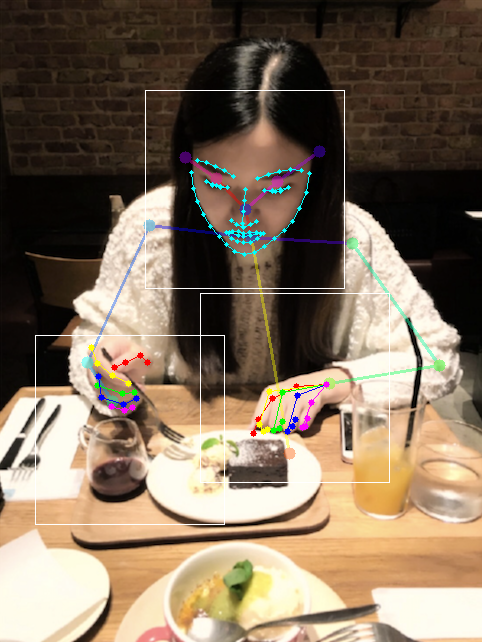
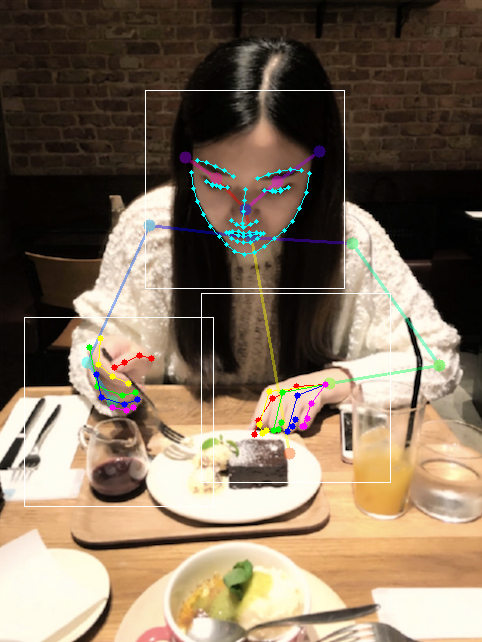
update hands_cropper

diff --git a/pose_detector.py b/pose_detector.py
@@ -374,8 +374,7 @@ class PoseDetector(object):
             crop_center = person_pose[JointType.LeftHand][:-1]
             if person_pose[JointType.LeftElbow][2] > 0:
                 direction_vec = person_pose[JointType.LeftHand][:-1] - person_pose[JointType.LeftElbow][:-1]
-                direction_vec = direction_vec / np.linalg.norm(direction_vec)
-                crop_center += (0.35 * unit_length * direction_vec).astype(crop_center.dtype)
+                crop_center += (0.3 * direction_vec).astype(crop_center.dtype)
             hand_img, bbox = self.crop_around_keypoint(img, crop_center, unit_length * 0.95)
             hands["left"] = {
                 "img": hand_img,
@@ -386,8 +385,7 @@ class PoseDetector(object):
             crop_center = person_pose[JointType.RightHand][:-1]
             if person_pose[JointType.RightElbow][2] > 0:
                 direction_vec = person_pose[JointType.RightHand][:-1] - person_pose[JointType.RightElbow][:-1]
-                direction_vec = direction_vec / np.linalg.norm(direction_vec)
-                crop_center += (0.35 * unit_length * direction_vec).astype(crop_center.dtype)
+                crop_center += (0.3 * direction_vec).astype(crop_center.dtype)
             hand_img, bbox = self.crop_around_keypoint(img, crop_center, unit_length * 0.95)
             hands["right"] = {
                 "img": hand_img,
